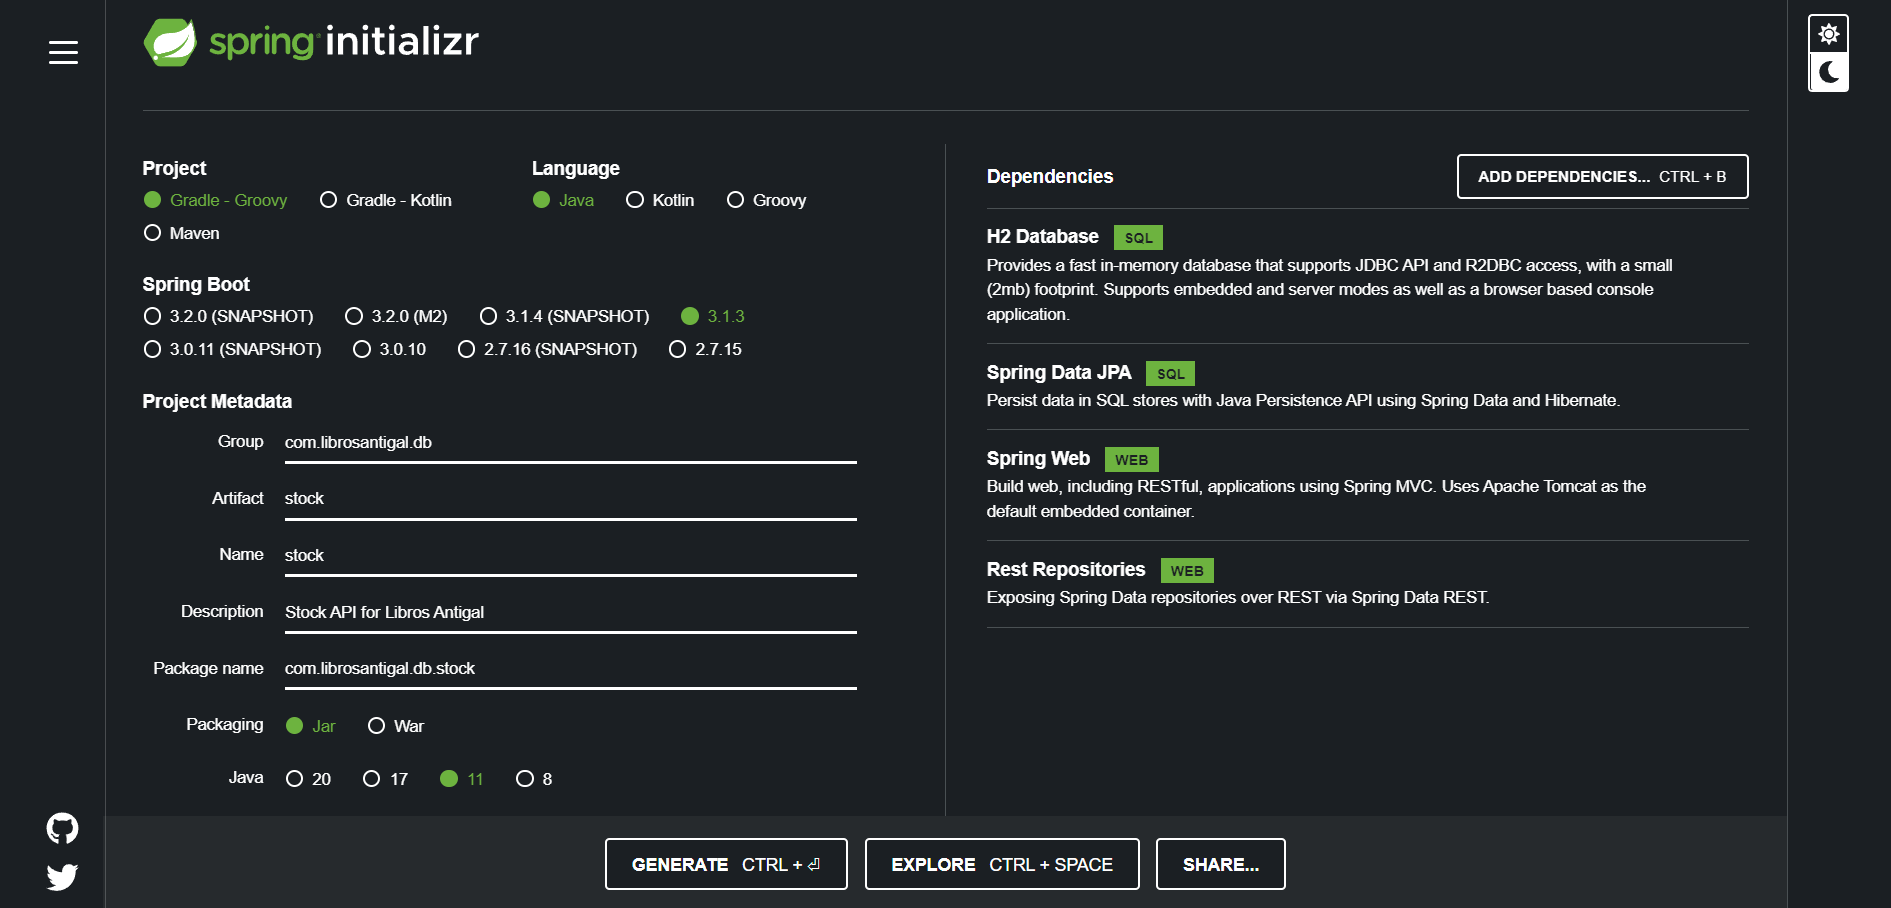
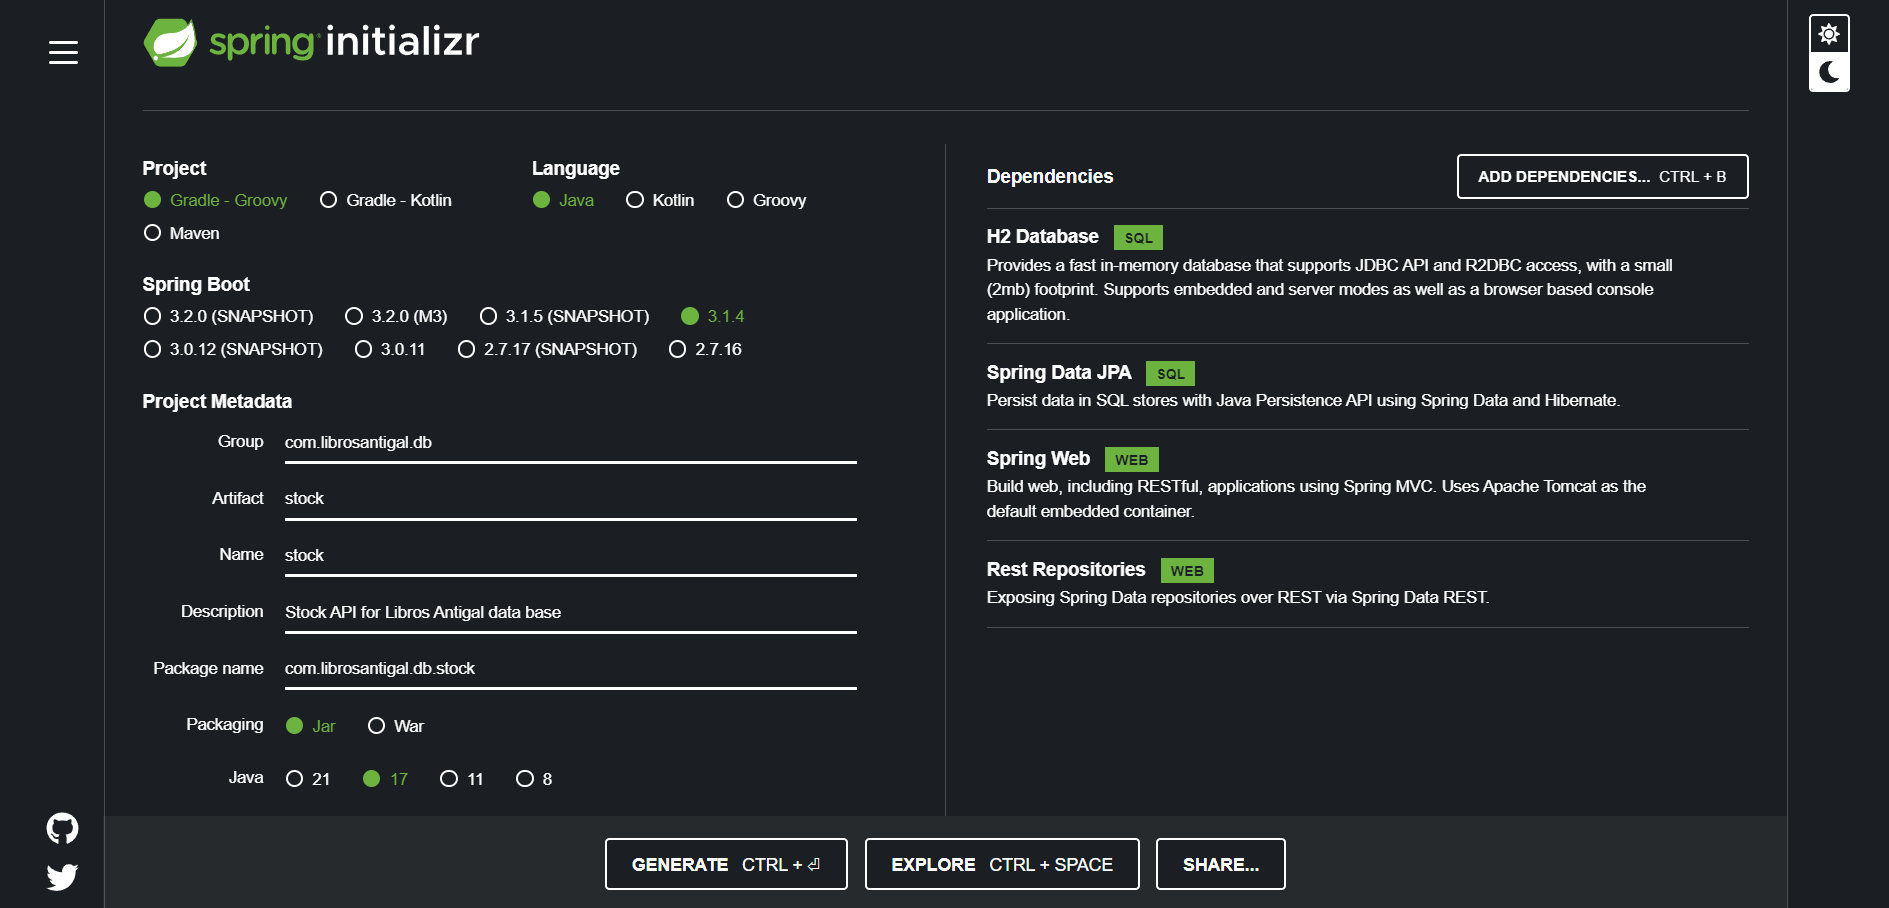
java

diff --git a/03_java-python/API RESTful Java and SpringBoot/01_Setup (1).md b/03_java-python/API RESTful Java and SpringBoot/01_Setup (1).md
@@ -1,6 +1,7 @@
 # Prueba
 
-![prueba](https://i.ytimg.com/vi/mi7uFovlLoM/maxresdefault.jpg)
+![prueba](https://raw.githubusercontent.com/maq-miguel-quinteros/00_apuntes/main/03_java-python/API%20RESTful%20Java%20and%20SpringBoot/wip/img/spring_initializr.png)
+
 
 ```Java
 public class Prueba{
@@ -10,17 +11,18 @@ public class Prueba{
 }
 ```
 
+
     |   public class Prueba{
-    
+
     |       @Id
-    
+
     |       
-    
+
     |       private Long id;
-    
+
     |   }
-    
+
     Unresolved dependencies:
-    
+
        - class Id
 
